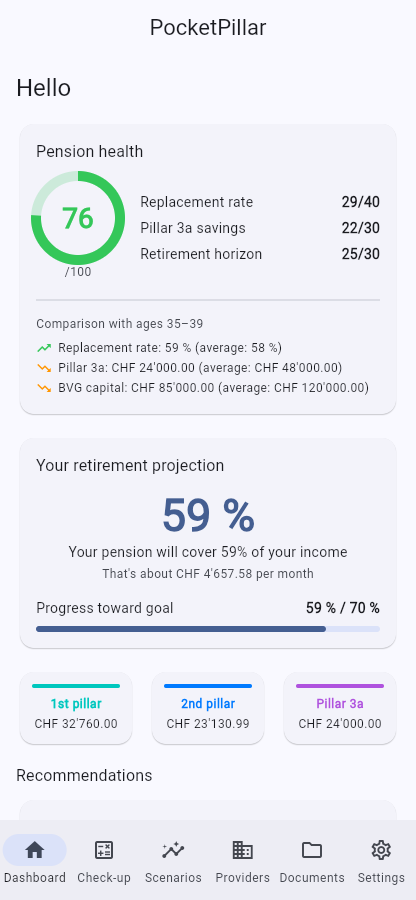
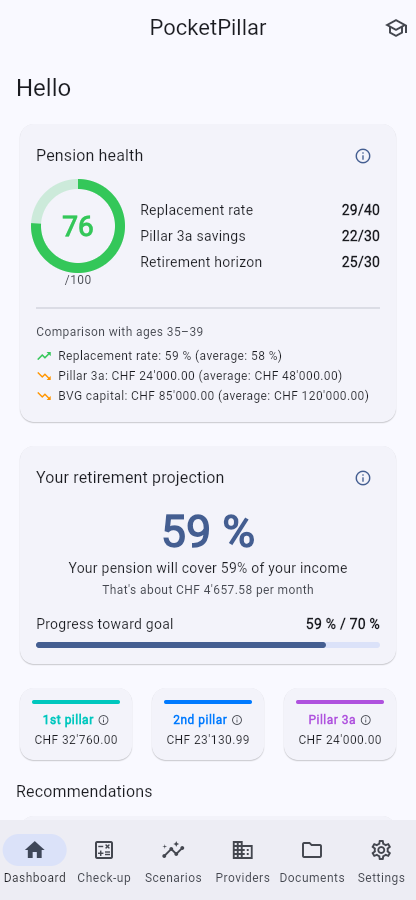
chore(repo): Dependabot, CodeQL, uptime probe + README refresh
- Dependabot: weekly npm (root), pub (mobile) and github-actions
  updates, minor/patch grouped
- CodeQL: javascript-typescript on push/PR/weekly (Dart unsupported;
  the TS backend is the security surface)
- Uptime: /health probed every 30 min (3 attempts so a cold start never
  pages), ntfy push on failure via the NTFY_TOPIC repo secret — coarse
  on purpose to keep the scale-to-zero free tier meaningful
- README (EN/FR): CodeQL badge, built-in-pedagogy feature bullet, test
  counts refreshed (399 backend / 515 Flutter), dashboard screenshot
  retaken (help bubbles + Understand shortcut visible)

diff --git a/README.fr.md b/README.fr.md
@@ -13,6 +13,7 @@ Trilingue (français · allemand · anglais) — même les libellés calculés c
 
 <p align="center">
   <a href="https://github.com/Lubachma/pocketpillar/actions/workflows/ci.yml"><img alt="CI" src="https://github.com/Lubachma/pocketpillar/actions/workflows/ci.yml/badge.svg"></a>
+  <a href="https://github.com/Lubachma/pocketpillar/actions/workflows/codeql.yml"><img alt="CodeQL" src="https://github.com/Lubachma/pocketpillar/actions/workflows/codeql.yml/badge.svg"></a>
   <a href="LICENSE"><img alt="Licence : PolyForm Noncommercial 1.0.0" src="https://img.shields.io/badge/license-PolyForm--NC%201.0.0-blue"></a>
 </p>
 
@@ -40,6 +41,7 @@ Trilingue (français · allemand · anglais) — même les libellés calculés c
 - **Comparaison de prestataires** — frais, performance, ESG, meilleur choix scoré côté serveur.
 - **Coffre-fort documents** — stockage privé (chiffré au repos), liens de téléchargement signés (5 minutes).
 - **Checklist de fin d'année** — ce qu'il reste à verser avant le 31 décembre.
+- **Pédagogie intégrée** — fiches d'aide au toucher partout (les 3 piliers, taux de conversion, impôt au retrait…) et une page « comment calculons-nous ? » en mots simples, miroir de la [doc de méthodologie](docs/fiscal-accuracy.md) de ce repo.
 
 ## Précision suisse
 
@@ -78,8 +80,8 @@ Référence API : [docs/api-contract.md](docs/api-contract.md) (en anglais)
 
 ## Qualité
 
-- **390 tests backend** (Vitest) — fonctions de calcul pures, testées contre les valeurs d'ancrage officielles.
-- **499 tests Flutter** (unitaires + widget) et parcours E2E mockés ; `flutter analyze` à **0 issue**.
+- **399 tests backend** (Vitest) — fonctions de calcul pures, testées contre les valeurs d'ancrage officielles.
+- **515 tests Flutter** (unitaires + widget) et parcours E2E mockés ; `flutter analyze` à **0 issue**.
 - CI à chaque push/PR vers `main` (typecheck, lint, format, tests avec seuils de couverture, build APK debug).
 - Smoke test en conditions réelles contre n'importe quel déploiement : `scripts/smoke-api.sh <base-url>` (7 étapes, auto-nettoyant).
 - La démo publique est réinitialisée chaque nuit par une tâche planifiée qui rejoue la vraie API de bout en bout.

diff --git a/README.md b/README.md
@@ -13,6 +13,7 @@ Trilingual (French · German · English) — even server-computed labels follow 
 
 <p align="center">
   <a href="https://github.com/Lubachma/pocketpillar/actions/workflows/ci.yml"><img alt="CI" src="https://github.com/Lubachma/pocketpillar/actions/workflows/ci.yml/badge.svg"></a>
+  <a href="https://github.com/Lubachma/pocketpillar/actions/workflows/codeql.yml"><img alt="CodeQL" src="https://github.com/Lubachma/pocketpillar/actions/workflows/codeql.yml/badge.svg"></a>
   <a href="LICENSE"><img alt="License: PolyForm Noncommercial 1.0.0" src="https://img.shields.io/badge/license-PolyForm--NC%201.0.0-blue"></a>
 </p>
 
@@ -40,6 +41,7 @@ Trilingual (French · German · English) — even server-computed labels follow 
 - **Provider comparison** — fees, performance, ESG, server-scored best match.
 - **Document vault** — private storage (encrypted at rest), 5-minute signed download links.
 - **Year-end checklist** — what to pay in before December 31.
+- **Built-in pedagogy** — tap-anywhere help sheets (the 3 pillars, conversion rate, withdrawal tax…) and an in-app plain-words "how do we calculate?" page mirroring this repo's [methodology doc](docs/fiscal-accuracy.md).
 
 ## Swiss-grade accuracy
 
@@ -78,8 +80,8 @@ API reference: [docs/api-contract.md](docs/api-contract.md)
 
 ## Quality
 
-- **390 backend tests** (Vitest) — calculation functions are pure and tested against official anchor values.
-- **499 Flutter tests** (unit + widget) and mocked E2E journeys; `flutter analyze` at **0 issues**.
+- **399 backend tests** (Vitest) — calculation functions are pure and tested against official anchor values.
+- **515 Flutter tests** (unit + widget) and mocked E2E journeys; `flutter analyze` at **0 issues**.
 - CI on every push/PR to `main` (typecheck, lint, format, tests with coverage thresholds, debug APK build).
 - Real-conditions smoke script against any deployment: `scripts/smoke-api.sh <base-url>` (7 steps, self-cleaning).
 - The public demo is reset every night by a scheduled job that replays the real API end to end.
